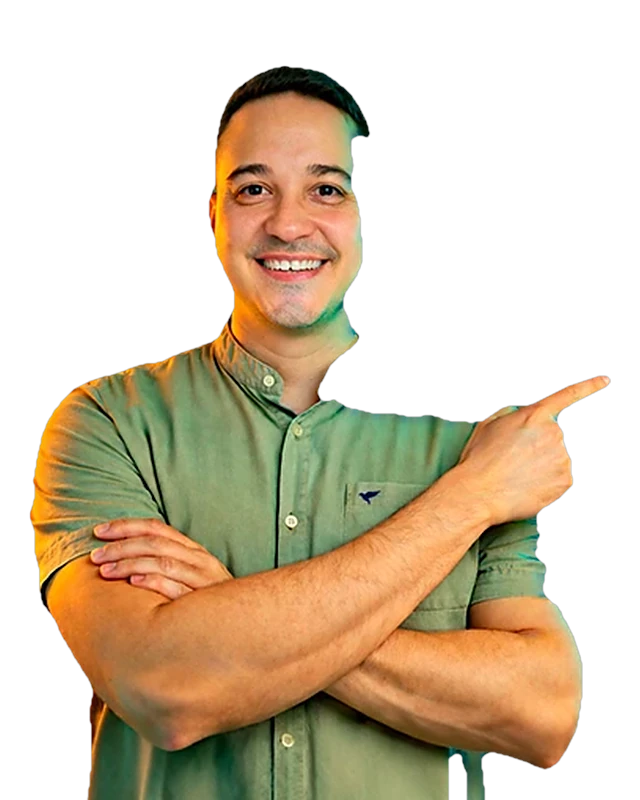
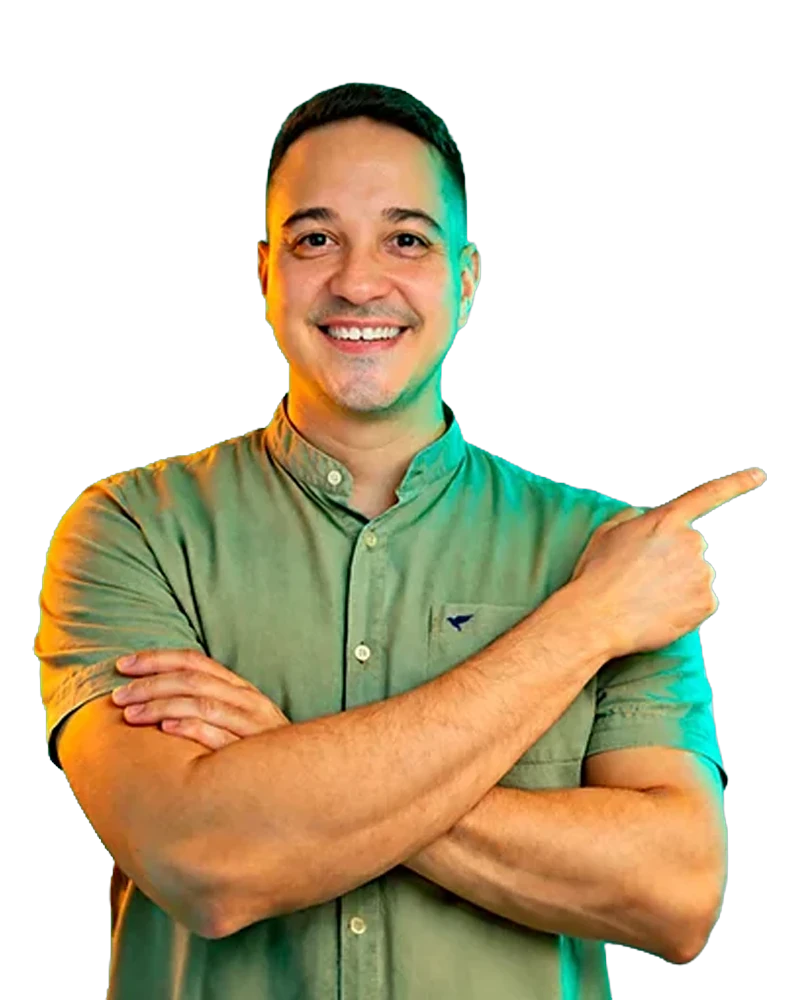
Sobre mí: usar el recorte nuevo de Diego (fondo transparente real)
Reemplaza el recorte hecho por código por la imagen con transparencia que envió Diego; lienzo 800x1000 con la misma proporción de la tarjeta.

diff --git a/index.html b/index.html
@@ -98,7 +98,7 @@
         </div>
         <div class="scard__face scard__face--back">
           <div class="scard__plate"><span class="scard__ring scard__ring--a"></span><span class="scard__ring scard__ring--b"></span><span class="scard__shine"></span></div>
-          <img class="scard__cutout" src="assets/img/diego-about.webp" alt="" width="640" height="800">
+          <img class="scard__cutout" src="assets/img/diego-about.webp" alt="" width="800" height="1000">
           <span class="scard__chip scard__chip--e">Diseño</span>
           <span class="scard__chip scard__chip--f">Tecnología</span>
           <span class="scard__chip scard__chip--g">Marketing</span>
@@ -451,7 +451,7 @@
     <div class="wrap about__main" data-card-stop="about">
       <figure class="about__photo">
         <div class="scard__plate"><span class="scard__ring scard__ring--a"></span><span class="scard__ring scard__ring--b"></span><span class="scard__shine"></span></div>
-        <img class="about__cut" src="assets/img/diego-about.webp" alt="Retrato de Diego Torres, diseñador UX/UI y especialista en marketing digital" width="640" height="800" loading="lazy">
+        <img class="about__cut" src="assets/img/diego-about.webp" alt="Retrato de Diego Torres, diseñador UX/UI y especialista en marketing digital" width="800" height="1000" loading="lazy">
       </figure>
       <div class="about__copy">
         <p class="chip chip--dark" data-reveal><i class="dot"></i> ¿Quién soy?</p>

diff --git a/src/pages/home.html b/src/pages/home.html
@@ -31,7 +31,7 @@
         </div>
         <div class="scard__face scard__face--back">
           <div class="scard__plate"><span class="scard__ring scard__ring--a"></span><span class="scard__ring scard__ring--b"></span><span class="scard__shine"></span></div>
-          <img class="scard__cutout" src="assets/img/diego-about.webp" alt="" width="640" height="800">
+          <img class="scard__cutout" src="assets/img/diego-about.webp" alt="" width="800" height="1000">
           <span class="scard__chip scard__chip--e">Diseño</span>
           <span class="scard__chip scard__chip--f">Tecnología</span>
           <span class="scard__chip scard__chip--g">Marketing</span>
@@ -325,7 +325,7 @@
     <div class="wrap about__main" data-card-stop="about">
       <figure class="about__photo">
         <div class="scard__plate"><span class="scard__ring scard__ring--a"></span><span class="scard__ring scard__ring--b"></span><span class="scard__shine"></span></div>
-        <img class="about__cut" src="assets/img/diego-about.webp" alt="Retrato de Diego Torres, diseñador UX/UI y especialista en marketing digital" width="640" height="800" loading="lazy">
+        <img class="about__cut" src="assets/img/diego-about.webp" alt="Retrato de Diego Torres, diseñador UX/UI y especialista en marketing digital" width="800" height="1000" loading="lazy">
       </figure>
       <div class="about__copy">
         <p class="chip chip--dark" data-reveal><i class="dot"></i> ¿Quién soy?</p>
